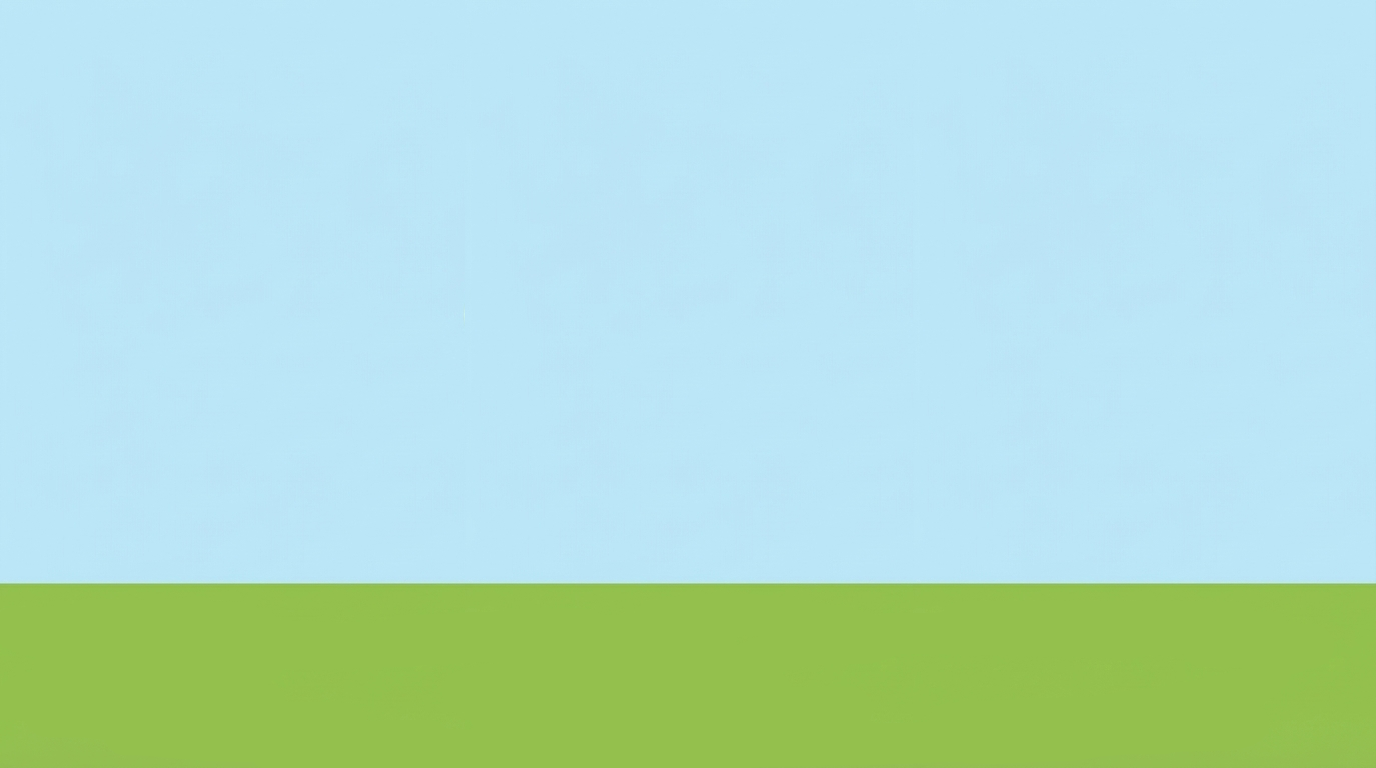
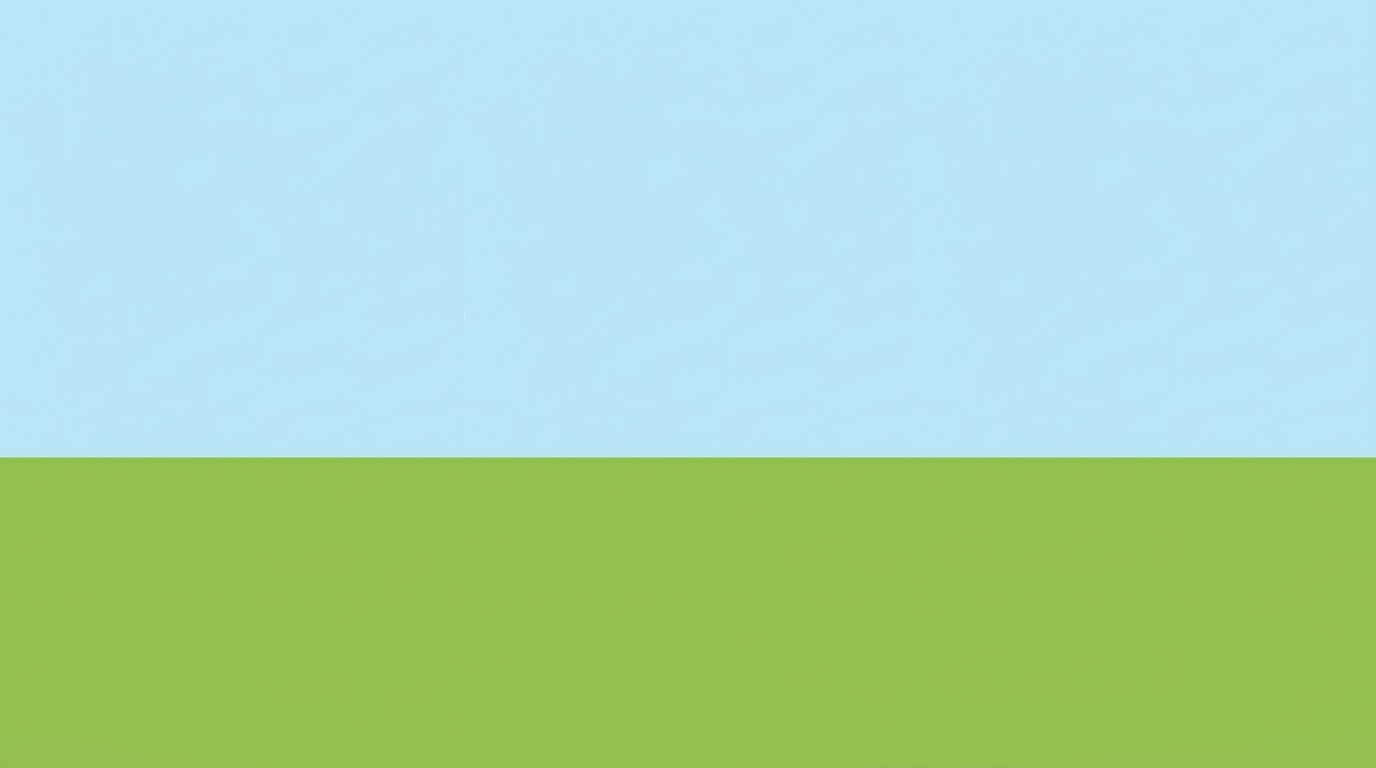
Adjust story layouts and actor stroke color
Update background image and tweak UI/scene layout for three story pages. Actor.tsx: change strokeColor from white to black to improve contrast. arboles-y-manzanas-1/2/3.story.json: lift tree and apple positions (y values adjusted from ~55/50 to 50/45), tweak subtitle positions and outline settings (remove outline in part 1; increase textOutlineSize to 8px and move subtitle in parts 2/3), and fix an actor id in part 2 ("number-1" -> "number"). Updated public/cuentos/bg-park.png (binary asset changed).

Changed region(s): [[0.0, 0.5938, 1.0, 0.7812]]

diff --git a/src/components/story/Actor.tsx b/src/components/story/Actor.tsx
@@ -64,7 +64,7 @@ export default function Actor({ actorState, updateActor, viewportScale }: ActorP
         fontSize: "1.2rem",
         backgroundColor: "rgba(0, 0, 0, 0.35)",
         strokeWidth: "8px",
-        strokeColor: "white",
+        strokeColor: "black",
         textShadow: "2px 2px 3px black",
     };
 